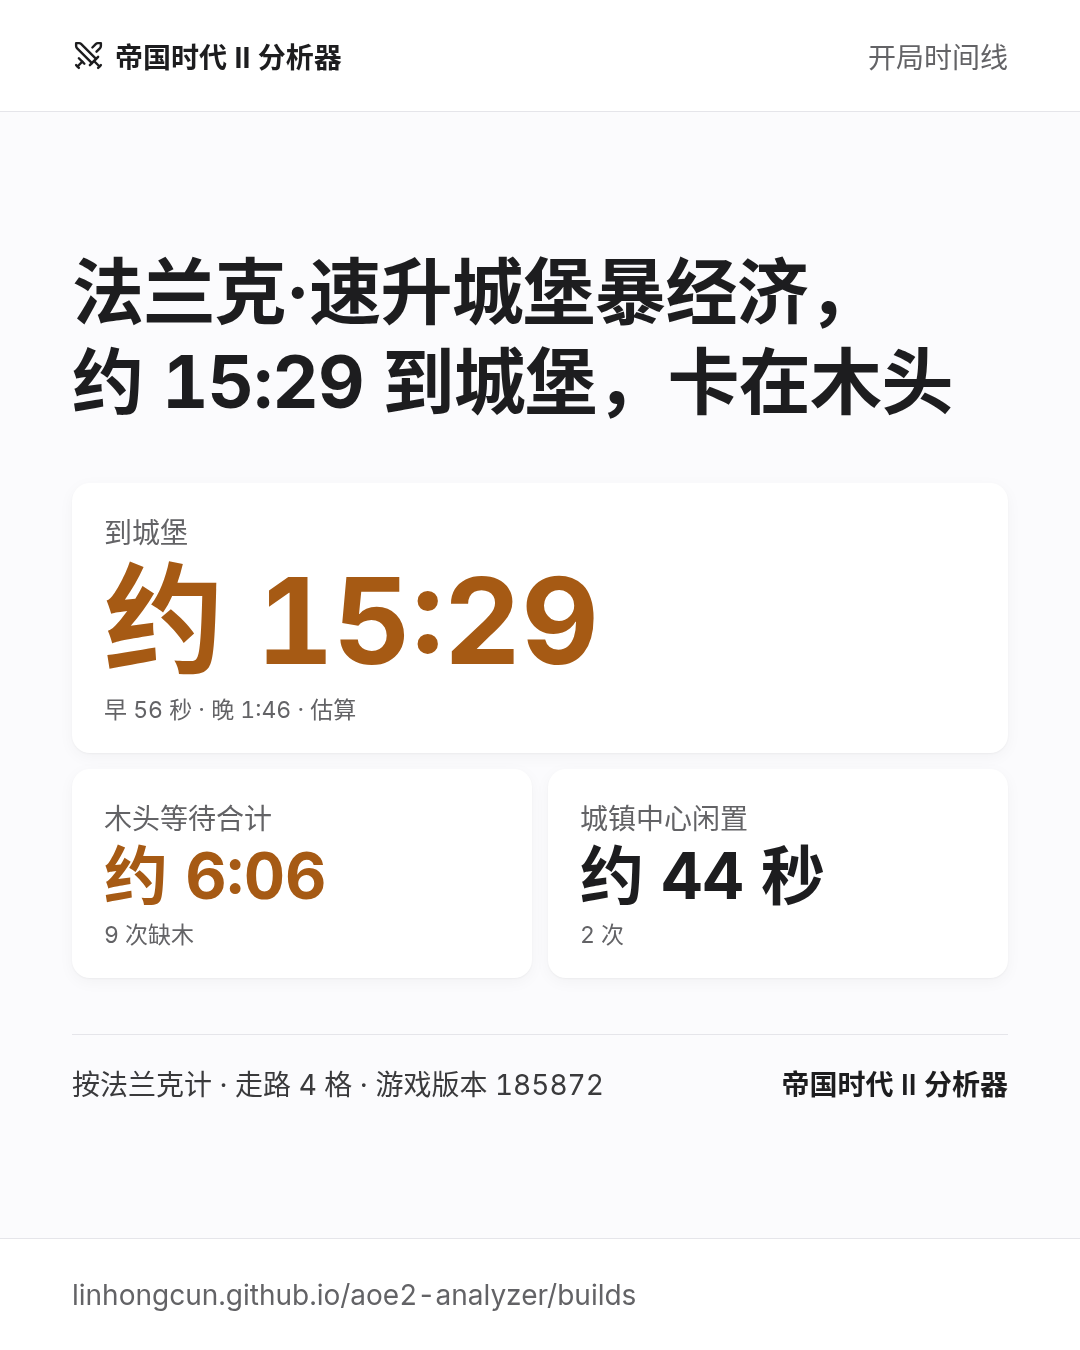
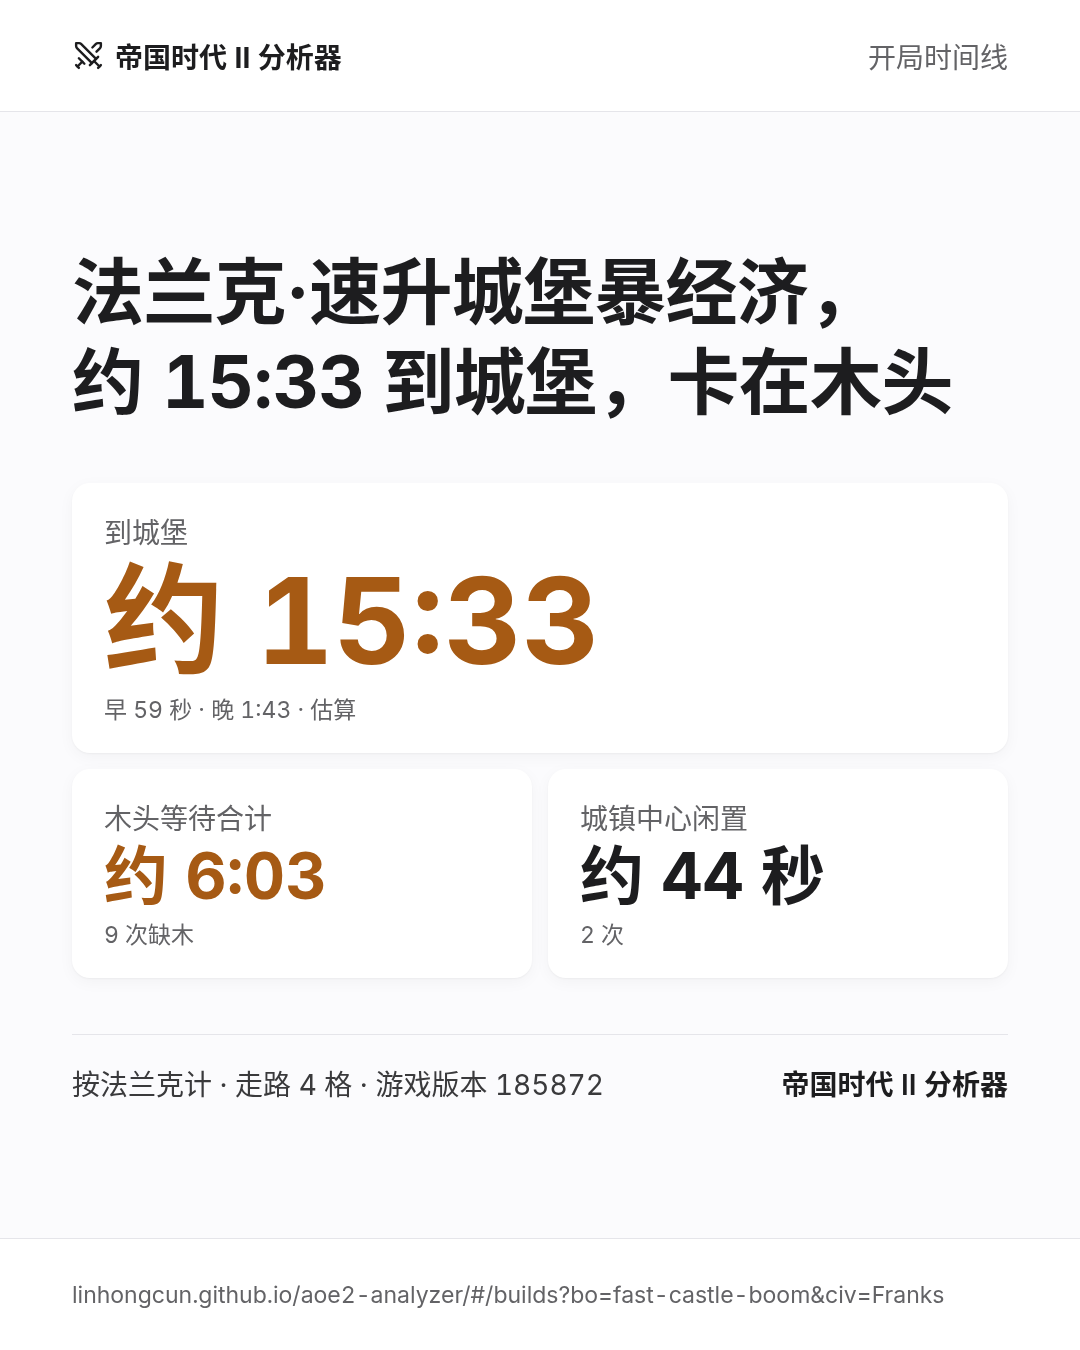
design(#19): share card numbers re-run at 570dfab (#51): 15:33 / 早59秒·晚1:43 / 木头 6:03; footer URL = reproducible deep link

diff --git a/docs/design/mockups/issue19/share-card/portrait-1080x1350.html b/docs/design/mockups/issue19/share-card/portrait-1080x1350.html
@@ -1,6 +1,6 @@
 <!doctype html><meta charset=utf-8><style>*{box-sizing:border-box;margin:0}body{width:1080px;height:1350px;overflow:hidden;background:#fbfbfd;color:#1d1d1f;font-family:Inter,"Noto Sans CJK SC","PingFang SC",sans-serif;font-variant-numeric:tabular-nums}
 .c{height:100%;display:flex;flex-direction:column}.top,.ft{display:flex;align-items:center;background:#fff;padding:0 72px;height:112px;font-size:28px}
-.top{justify-content:space-between;border-bottom:1px solid #e5e5ea}.ft{border-top:1px solid #e5e5ea;color:#636366}
+.top{justify-content:space-between;border-bottom:1px solid #e5e5ea}.ft{border-top:1px solid #e5e5ea;color:#636366;white-space:nowrap;font-size:23px}
 .wm{display:flex;gap:10px;align-items:center;font-weight:700}.kind{color:#636366}
 .b{flex:1;padding:72px;display:flex;flex-direction:column;justify-content:center;gap:56px}
 h1{font-size:72px;line-height:1.25;letter-spacing:-.01em;font-weight:700}
@@ -11,5 +11,5 @@ h1{font-size:72px;line-height:1.25;letter-spacing:-.01em;font-weight:700}
 .bs{font-size:28px;color:#3a3a3c;border-top:1px solid #e5e5ea;padding-top:28px;display:flex;justify-content:space-between;gap:16px}.bs b{font-weight:600;color:#1d1d1f}
 .st{grid-template-columns:1fr 1fr}.s:first-child{grid-column:1/3}
 </style><body><div class=c><div class=top><span class=wm><svg width="33" height="33" viewBox="0 0 24 24" fill="none" stroke="currentColor" stroke-width="1.75" stroke-linecap="round" stroke-linejoin="round"><path d="m13 19 6-6"/><path d="M14.5 17.5 3.586 6.586A2 2 0 013 5.172V3h2.172a2 2 0 011.414.586L17.5 14.5"/><path d="m14.828 6.172 2.586-2.586A2 2 0 0118.828 3H21v2.172a2 2 0 01-.586 1.414l-2.586 2.586"/><path d="m16 16 4 4"/><path d="m19 21 2-2"/><path d="m5 14 4 4"/><path d="m5 21-2-2"/><path d="M7.5 16.5 4 20"/></svg>帝国时代 II 分析器</span><span class=kind>开局时间线</span></div>
-<div class=b><h1>法兰克·速升城堡暴经济，<br>约 15:29 到城堡，卡在木头</h1><div class=st><div class="s a"><div class=l>到城堡</div><div class=v>约 15:29</div><div class=e>早 56 秒 · 晚 1:46 · 估算</div></div><div class="s a"><div class=l>木头等待合计</div><div class=v>约 6:06</div><div class=e>9 次缺木</div></div><div class="s"><div class=l>城镇中心闲置</div><div class=v>约 44 秒</div><div class=e>2 次</div></div></div><div class=bs><span>按法兰克计 · 走路 4 格 · 游戏版本 185872</span><b>帝国时代 II 分析器</b></div></div>
-<div class=ft>linhongcun.github.io/aoe2-analyzer/builds</div></div>
+<div class=b><h1>法兰克·速升城堡暴经济，<br>约 15:33 到城堡，卡在木头</h1><div class=st><div class="s a"><div class=l>到城堡</div><div class=v>约 15:33</div><div class=e>早 59 秒 · 晚 1:43 · 估算</div></div><div class="s a"><div class=l>木头等待合计</div><div class=v>约 6:03</div><div class=e>9 次缺木</div></div><div class="s"><div class=l>城镇中心闲置</div><div class=v>约 44 秒</div><div class=e>2 次</div></div></div><div class=bs><span>按法兰克计 · 走路 4 格 · 游戏版本 185872</span><b>帝国时代 II 分析器</b></div></div>
+<div class=ft>linhongcun.github.io/aoe2-analyzer/#/builds?bo=fast-castle-boom&amp;civ=Franks</div></div>

diff --git a/docs/design/mockups/issue19/share-card/landscape-1200x630.html b/docs/design/mockups/issue19/share-card/landscape-1200x630.html
@@ -1,6 +1,6 @@
 <!doctype html><meta charset=utf-8><style>*{box-sizing:border-box;margin:0}body{width:1200px;height:630px;overflow:hidden;background:#fbfbfd;color:#1d1d1f;font-family:Inter,"Noto Sans CJK SC","PingFang SC",sans-serif;font-variant-numeric:tabular-nums}
 .c{height:100%;display:flex;flex-direction:column}.top,.ft{display:flex;align-items:center;background:#fff;padding:0 48px;height:60px;font-size:18px}
-.top{justify-content:space-between;border-bottom:1px solid #e5e5ea}.ft{border-top:1px solid #e5e5ea;color:#636366}
+.top{justify-content:space-between;border-bottom:1px solid #e5e5ea}.ft{border-top:1px solid #e5e5ea;color:#636366;white-space:nowrap;font-size:18px}
 .wm{display:flex;gap:10px;align-items:center;font-weight:700}.kind{color:#636366}
 .b{flex:1;padding:48px;display:flex;flex-direction:column;justify-content:center;gap:26px}
 h1{font-size:40px;line-height:1.25;letter-spacing:-.01em;font-weight:700}
@@ -11,5 +11,5 @@ h1{font-size:40px;line-height:1.25;letter-spacing:-.01em;font-weight:700}
 .bs{font-size:18px;color:#3a3a3c;border-top:1px solid #e5e5ea;padding-top:13px;display:flex;justify-content:space-between;gap:16px}.bs b{font-weight:600;color:#1d1d1f}
 
 </style><body><div class=c><div class=top><span class=wm><svg width="21" height="21" viewBox="0 0 24 24" fill="none" stroke="currentColor" stroke-width="1.75" stroke-linecap="round" stroke-linejoin="round"><path d="m13 19 6-6"/><path d="M14.5 17.5 3.586 6.586A2 2 0 013 5.172V3h2.172a2 2 0 011.414.586L17.5 14.5"/><path d="m14.828 6.172 2.586-2.586A2 2 0 0118.828 3H21v2.172a2 2 0 01-.586 1.414l-2.586 2.586"/><path d="m16 16 4 4"/><path d="m19 21 2-2"/><path d="m5 14 4 4"/><path d="m5 21-2-2"/><path d="M7.5 16.5 4 20"/></svg>帝国时代 II 分析器</span><span class=kind>开局时间线</span></div>
-<div class=b><h1>法兰克·速升城堡暴经济，约 15:29 到城堡，卡在木头</h1><div class=st><div class="s a"><div class=l>到城堡</div><div class=v>约 15:29</div><div class=e>早 56 秒 · 晚 1:46 · 估算</div></div><div class="s a"><div class=l>木头等待合计</div><div class=v>约 6:06</div><div class=e>9 次缺木</div></div><div class="s"><div class=l>城镇中心闲置</div><div class=v>约 44 秒</div><div class=e>2 次</div></div></div><div class=bs><span>按法兰克计 · 走路 4 格 · 游戏版本 185872</span><b>帝国时代 II 分析器</b></div></div>
-<div class=ft>linhongcun.github.io/aoe2-analyzer/builds</div></div>
+<div class=b><h1>法兰克·速升城堡暴经济，约 15:33 到城堡，卡在木头</h1><div class=st><div class="s a"><div class=l>到城堡</div><div class=v>约 15:33</div><div class=e>早 59 秒 · 晚 1:43 · 估算</div></div><div class="s a"><div class=l>木头等待合计</div><div class=v>约 6:03</div><div class=e>9 次缺木</div></div><div class="s"><div class=l>城镇中心闲置</div><div class=v>约 44 秒</div><div class=e>2 次</div></div></div><div class=bs><span>按法兰克计 · 走路 4 格 · 游戏版本 185872</span><b>帝国时代 II 分析器</b></div></div>
+<div class=ft>linhongcun.github.io/aoe2-analyzer/#/builds?bo=fast-castle-boom&amp;civ=Franks</div></div>

diff --git a/docs/design/mockups/issue19/share-card/gen.py b/docs/design/mockups/issue19/share-card/gen.py
@@ -1,13 +1,13 @@
-# 数据：main bb9ff17 simulateBuild('fast-castle-boom','Franks',{walkTiles:4,autoHouses:true})；simSupport('Franks')=true
-D=dict(concl="法兰克·速升城堡暴经济，约 15:29 到城堡，卡在木头",
- k=[("到城堡","约 15:29",True,"早 56 秒 · 晚 1:46 · 估算"),("木头等待合计","约 6:06",True,"9 次缺木"),("城镇中心闲置","约 44 秒",False,"2 次")],
- basis="按法兰克计 · 走路 4 格 · 游戏版本 185872",site="帝国时代 II 分析器",url="linhongcun.github.io/aoe2-analyzer/builds")
+# 数据：0a0995d（#51，线上） simulateBuild('fast-castle-boom','Franks',{walkTiles:4,autoHouses:true})；simSupport('Franks')=true
+D=dict(concl="法兰克·速升城堡暴经济，约 15:33 到城堡，卡在木头",
+ k=[("到城堡","约 15:33",True,"早 59 秒 · 晚 1:43 · 估算"),("木头等待合计","约 6:03",True,"9 次缺木"),("城镇中心闲置","约 44 秒",False,"2 次")],
+ basis="按法兰克计 · 走路 4 格 · 游戏版本 185872",site="帝国时代 II 分析器",url="linhongcun.github.io/aoe2-analyzer/#/builds?bo=fast-castle-boom&amp;civ=Franks")
 SW='<svg width="{s}" height="{s}" viewBox="0 0 24 24" fill="none" stroke="currentColor" stroke-width="1.75" stroke-linecap="round" stroke-linejoin="round"><path d="m13 19 6-6"/><path d="M14.5 17.5 3.586 6.586A2 2 0 013 5.172V3h2.172a2 2 0 011.414.586L17.5 14.5"/><path d="m14.828 6.172 2.586-2.586A2 2 0 0118.828 3H21v2.172a2 2 0 01-.586 1.414l-2.586 2.586"/><path d="m16 16 4 4"/><path d="m19 21 2-2"/><path d="m5 14 4 4"/><path d="m5 21-2-2"/><path d="M7.5 16.5 4 20"/></svg>'
 def page(W,H,u,pad,bar,h1,hn,v,lab,gap):
   ks=''.join(f'<div class="s{" a" if a else ""}"><div class=l>{l}</div><div class=v>{x}</div><div class=e>{e}</div></div>' for l,x,a,e in D['k'])
   return f'''<!doctype html><meta charset=utf-8><style>*{{box-sizing:border-box;margin:0}}body{{width:{W}px;height:{H}px;overflow:hidden;background:#fbfbfd;color:#1d1d1f;font-family:Inter,"Noto Sans CJK SC","PingFang SC",sans-serif;font-variant-numeric:tabular-nums}}
 .c{{height:100%;display:flex;flex-direction:column}}.top,.ft{{display:flex;align-items:center;background:#fff;padding:0 {pad}px;height:{bar}px;font-size:{lab}px}}
-.top{{justify-content:space-between;border-bottom:1px solid #e5e5ea}}.ft{{border-top:1px solid #e5e5ea;color:#636366}}
+.top{{justify-content:space-between;border-bottom:1px solid #e5e5ea}}.ft{{border-top:1px solid #e5e5ea;color:#636366;white-space:nowrap;font-size:{int(lab*.85) if H>W else lab}px}}
 .wm{{display:flex;gap:10px;align-items:center;font-weight:700}}.kind{{color:#636366}}
 .b{{flex:1;padding:{pad}px;display:flex;flex-direction:column;justify-content:center;gap:{gap}px}}
 h1{{font-size:{h1}px;line-height:1.25;letter-spacing:-.01em;font-weight:700}}

diff --git a/docs/design/mockups/issue19/share-card/SPEC.md b/docs/design/mockups/issue19/share-card/SPEC.md
@@ -1,16 +1,17 @@
 # #19 分享卡 v2：三层口径（Steve 定）
 
-数据：main `bb9ff17`，`simulateBuild(fast-castle-boom, 'Franks', eco, ups, { walkTiles: 4, autoHouses: true })`；`simSupport('Franks') === true`。
-- 到城堡 reachAt 929s → 15:29，errSec early 55.7 / late 106.2 → 早 56 秒 · 晚 1:46
-- resource_short(wood) 9 次，waitSec 合计 366.3s → 6:06；无 pop_block
-- tcIdleTotal 约 44s（2 次 idle_tc）
+数据：`0a0995d`（#51 合入，线上），`simulateBuild(fast-castle-boom, 'Franks', eco, ups, { walkTiles: 4, autoHouses: true })`；`simSupport('Franks') === true`。（v2 原为 main `bb9ff17`：15:29 / 早 56 秒 · 晚 1:46 / 6:06）
+- 到城堡 reachAt 932.6s → 15:33（点击 772.6s），errSec early 59.4 / late 102.5 → 早 59 秒 · 晚 1:43
+- resource_short(wood) 9 次，waitSec 合计 362.6s → 6:03；无 pop_block
+- 新增 prereq_wait 1 次（等市场 3.7s，#51 前置建筑规则），不足以改变主卡点，结论仍为「卡在木头」
+- tcIdleTotal 43.6s → 约 44 秒（2 次 idle_tc）
 
 ## 三层
 1. 结论句（自动生成，见下表）
 2. 关键数 3 个，琥珀最多 2 个：目标时代到达时间（琥珀）、主卡点等待合计（琥珀；无卡点时换成 TC 闲置，中性）、TC 闲置（中性）
 3. 口径行：按{文明}计 · 走路 {n} 格 · 游戏版本 {build} + 站名
 - 游戏版本号从 `scripts/data_sources.json` 的 `patch.build` 读取，生成时写入卡片，**永不硬编码**；补丁更新后旧卡仍可追溯到算它时的版本。例：按法兰克计 · 走路 4 格 · 游戏版本 185872（main 当前 `patch.build`）。
-- 竖版 1080×1350 页脚只放 URL 文字；横版 1200×630 不放村民分配条。两版都不放村民分配条（不属于三层）。
+- 竖版 1080×1350 页脚只放 URL 文字（无二维码/短链）。URL 为能还原同一设置的深链 `…/#/builds?bo={开局}&civ={文明}`，dist/house 非默认（4 格、自动造房）时追加 `&dist=n` / `&house=0`（参考 Reid 调研规律 3）；横版 1200×630 不放村民分配条。两版都不放村民分配条（不属于三层）。
 - 置灰文明（`simSupport` 为 false）不生成分享卡，分享按钮置灰。不用梗、不评强弱。
 
 ## 结论句模板
